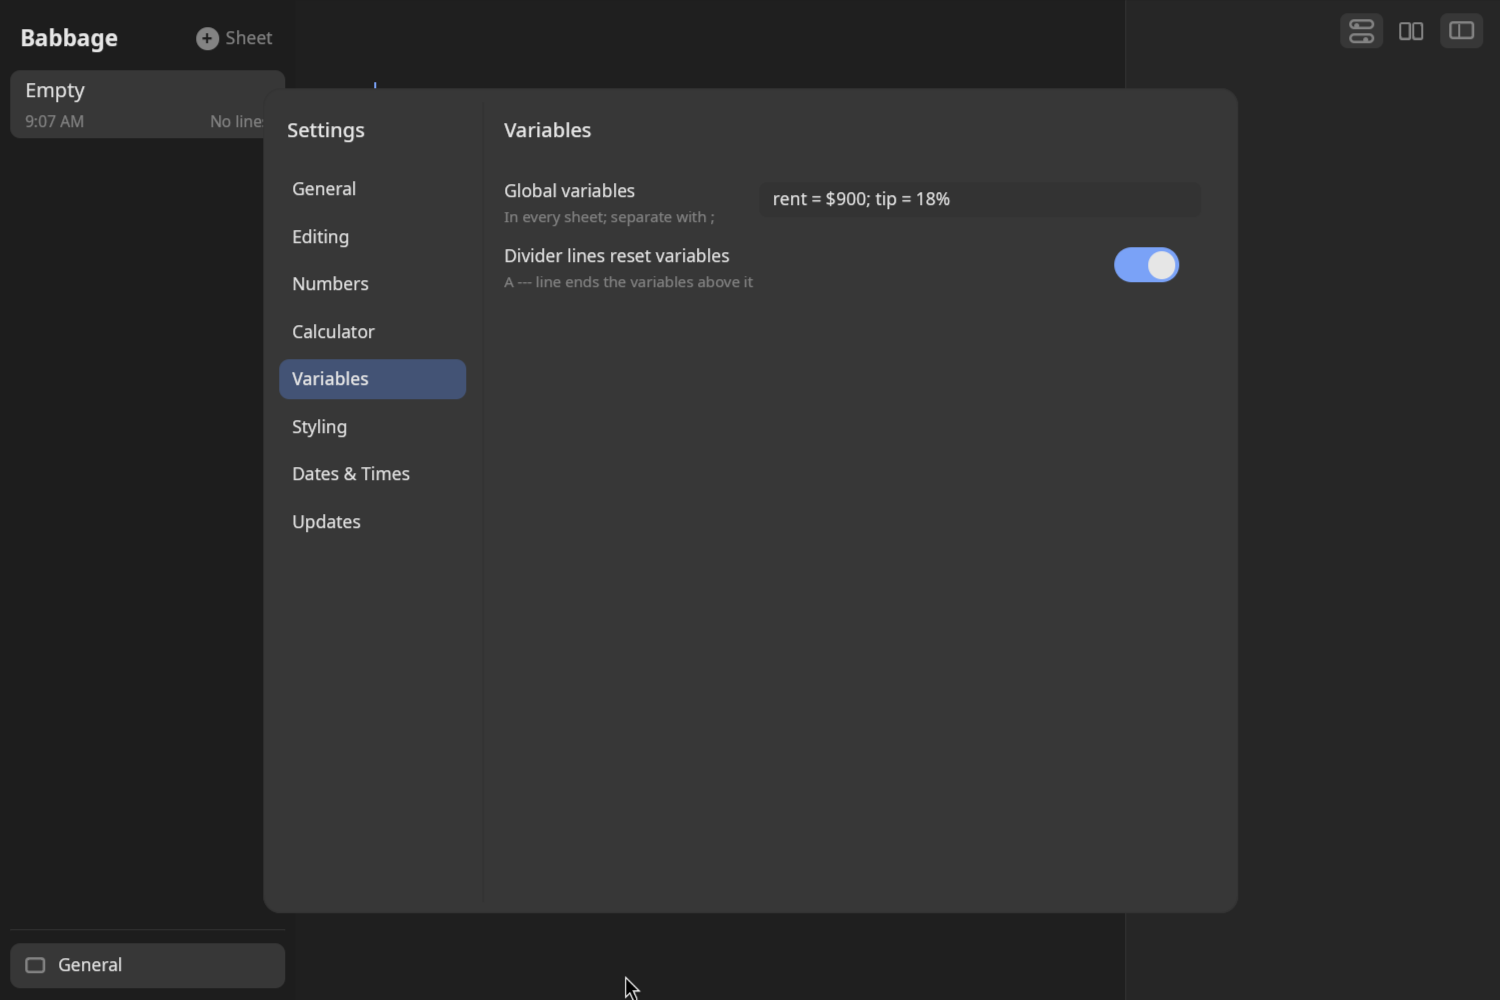
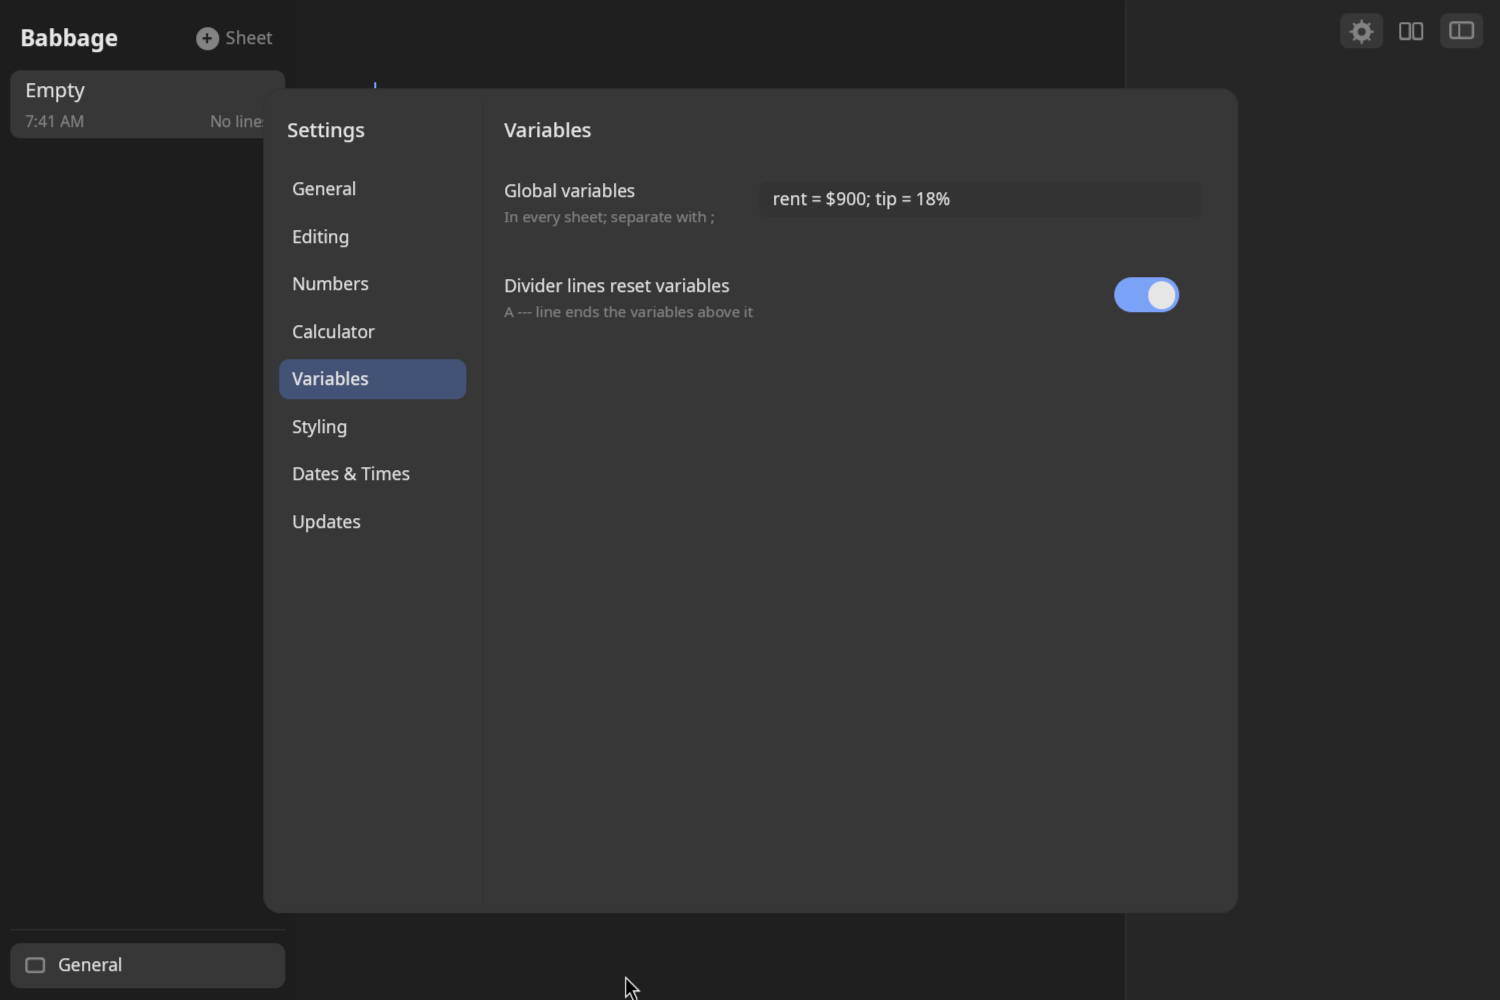
fix: settings rows have room for a hint that wraps onto two or three lines
WHAT: a row is 76 tall in a pane of seven settings or fewer and 58 in the Styling pane (ten), where it was 52 for all.
WHY: the label column is about 190 wide, so a hint such as the public holidays one wraps to three lines and reached the
next row's label (seen by the maintainer in Dates & Times and Numbers).
ENABLES: no overlap in any pane; the settings acceptance checks and the guide pictures are retaken.

LR-T: settings, layout, wrap
LR-D: babbage-app, docs
LR-K: settings-row-height

Changed region(s): [[0.3373, 0.248, 0.4907, 0.341], [0.736, 0.248, 0.7973, 0.31], [0.8893, 0.0, 0.92, 0.062]]

diff --git a/crates/babbage-app/src/settings_ui.rs b/crates/babbage-app/src/settings_ui.rs
@@ -16,7 +16,11 @@ pub const WINDOW_H: f32 = 660.;
 const TAB_X: f32 = 12.;
 const TAB_W: f32 = 150.;
 const ROW_TOP: f32 = 64.;
-const ROW_H: f32 = 52.;
+/// How tall a row is. A setting's hint can wrap onto two or three lines in the narrow label column, so a pane with
+/// few settings gives each room for three; the Styling pane, with ten short ones, gets room for two.
+fn row_h(items: usize) -> f32 {
+    if items <= 7 { 76. } else { 58. }
+}
 const CONTROL_X: f32 = 396.;
 
 /// What a control sets.
@@ -439,7 +443,7 @@ pub fn item_rects(pane: usize) -> Vec<(String, Rect)> {
         return out;
     };
     for (row, item) in pane.items.iter().enumerate() {
-        let y = ROW_TOP + ROW_H * row as f32 + 10.;
+        let y = ROW_TOP + row_h(pane.items.len()) * row as f32 + 10.;
         match &item.control {
             Control::Toggle { .. } => {
                 out.push((item.key.to_string(), r(WINDOW_W - 100., y, 52., 28.)))
@@ -718,7 +722,7 @@ impl SheetView {
                 .child(pane.title),
         );
         for (row, item) in pane.items.iter().enumerate() {
-            let y = ROW_TOP + ROW_H * row as f32;
+            let y = ROW_TOP + row_h(pane.items.len()) * row as f32;
             win = win.child(
                 div()
                     .absolute()
@@ -890,7 +894,9 @@ impl SheetView {
                 div()
                     .absolute()
                     .left(px(TAB_X + TAB_W + 30.))
-                    .top(px(ROW_TOP + ROW_H * pane.items.len() as f32 + 8.))
+                    .top(px(ROW_TOP
+                        + row_h(pane.items.len()) * pane.items.len() as f32
+                        + 8.))
                     .w(px(WINDOW_W - (TAB_X + TAB_W + 30.) - 30.))
                     .text_size(px(12.))
                     .text_color(c.muted)
